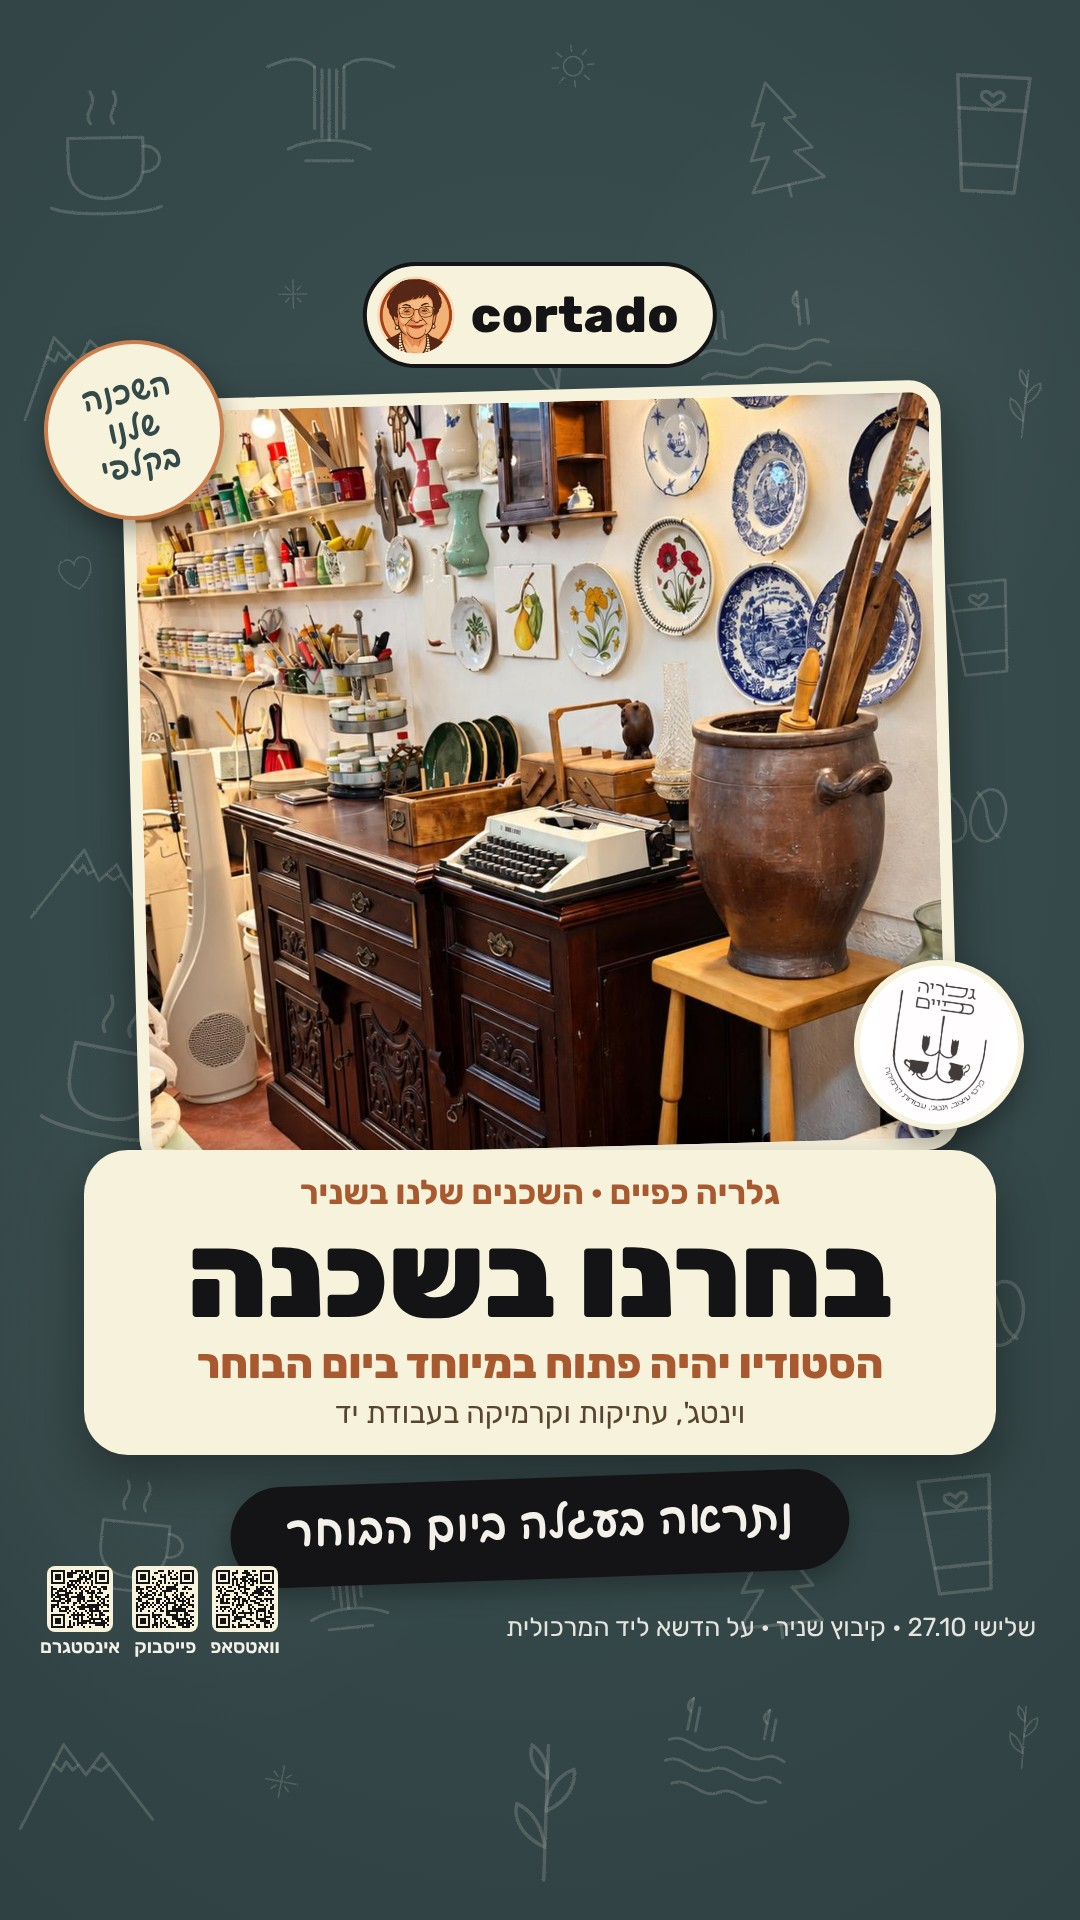
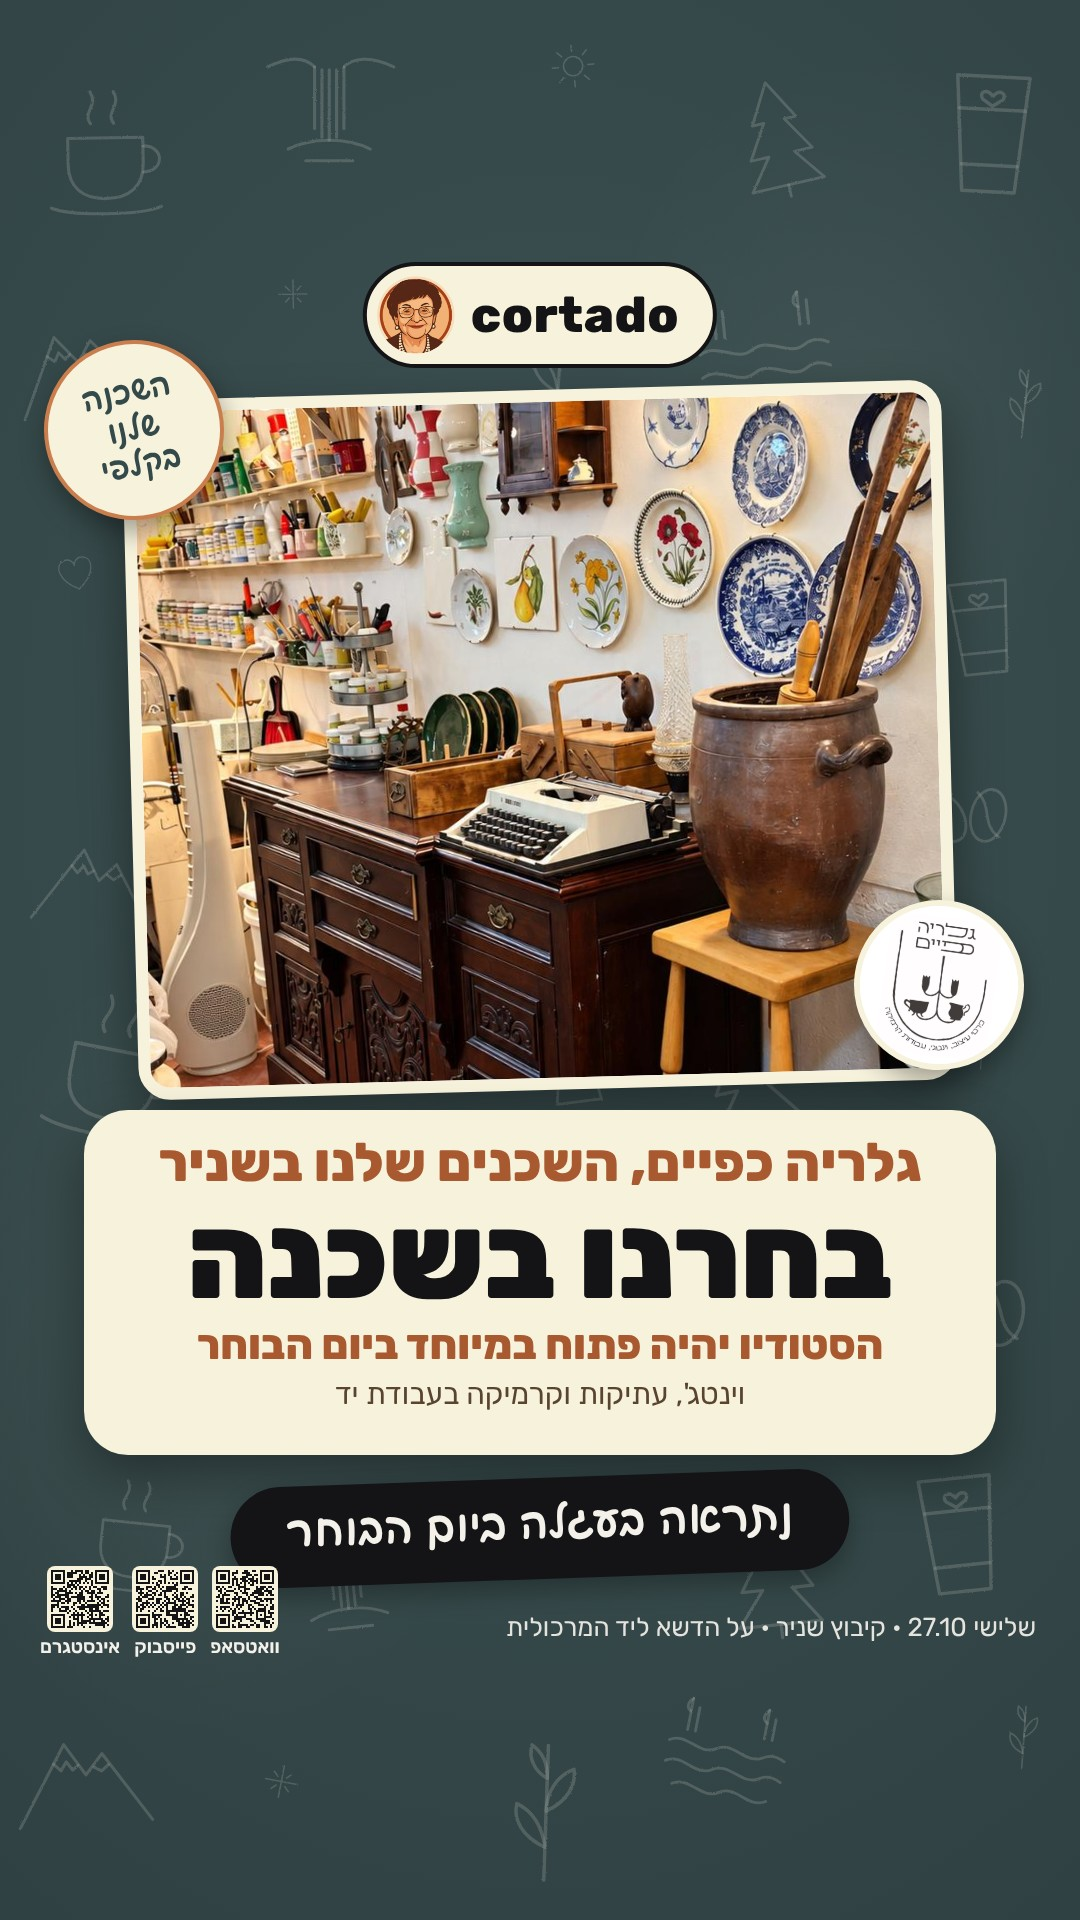
סטורי גלריה כפיים: 'גלריה כפיים, השכנים שלנו בשניר' בגדול (kbig בתבנית 64)
Claude-Session: https://claude.ai/code/session_012P2PGp4ybjgZ7a8JmzcT53

Changed region(s): [[0.0611, 0.1875, 0.9472, 0.75]]

diff --git a/toolkit/templates/64-partner-story.html b/toolkit/templates/64-partner-story.html
@@ -1,6 +1,6 @@
 <!doctype html><html lang="he" dir="rtl"><head><meta charset="utf-8"><meta name="size" content="1080x1920">
 <link rel="stylesheet" href="base.css"><link rel="stylesheet" href="board.css">
-<!-- Election-day partner story 9:16 (22.10.2026), one per partner. Data: window.HOURS.partner = {name, line, photo, logo?, em?, pos?, more?, k?, sticker?}.
+<!-- Election-day partner story 9:16 (22.10.2026), one per partner. Data: window.HOURS.partner = {name, line, photo, logo?, em?, pos?, more?, k?, kbig?, sticker?}.
      Paths are relative to this file. Everything inside y 250–1670 (app chrome above and below). -->
 <style>
 html,body{height:1920px}
@@ -23,6 +23,11 @@ html,body{height:1920px}
 .tall .fl{height:770px}
 .tall .logo{top:960px}
 .tall .card{top:1150px;height:305px}
+.card .k.big{font-size:54px;font-weight:800;line-height:1.15}
+.kbig .card{top:1150px;height:305px}
+.kbig.tall .card{top:1110px;height:345px}
+.kbig.tall .fl{height:700px}
+.kbig.tall .logo{top:900px}
 .card .l.em{font-size:42px;font-weight:800;color:#A9592F}
 .ribbon{top:1478px;font-size:44px}
 .socials{top:1566px;bottom:auto}
@@ -48,6 +53,7 @@ document.getElementById("line").textContent = p.line || "";
 if (p.more) { const m = document.getElementById("more"); m.hidden = false; m.textContent = p.more; document.body.classList.add("tall"); } // a second, smaller line
 if (p.em) document.getElementById("line").classList.add("em"); // the one thing the partner asked to stress
 if (p.k) document.getElementById("k").textContent = p.k; // a partner-specific top line instead of the default
+if (p.kbig) { document.getElementById("k").classList.add("big"); document.body.classList.add("kbig"); } // the top line as a second headline
 if (p.sticker) document.getElementById("sticker").innerHTML = p.sticker.split("|").join("<br>"); // "|" = line break
 if (p.logo) { const l = document.getElementById("logo"); l.hidden = false; l.querySelector("img").src = p.logo; }
 </script>
